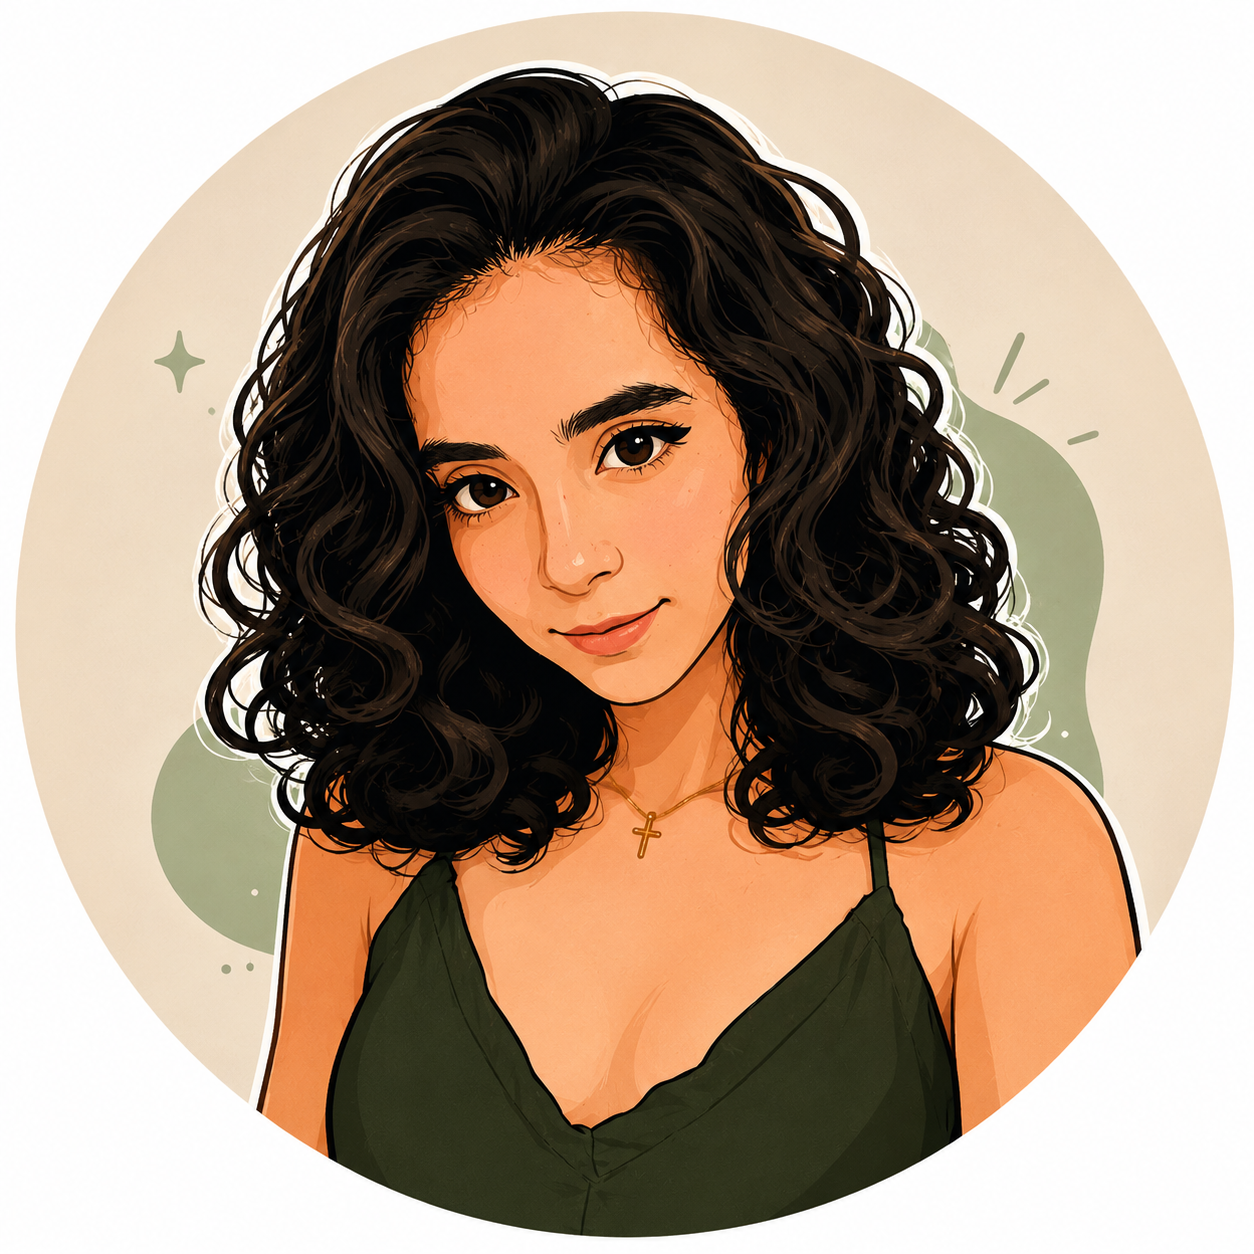
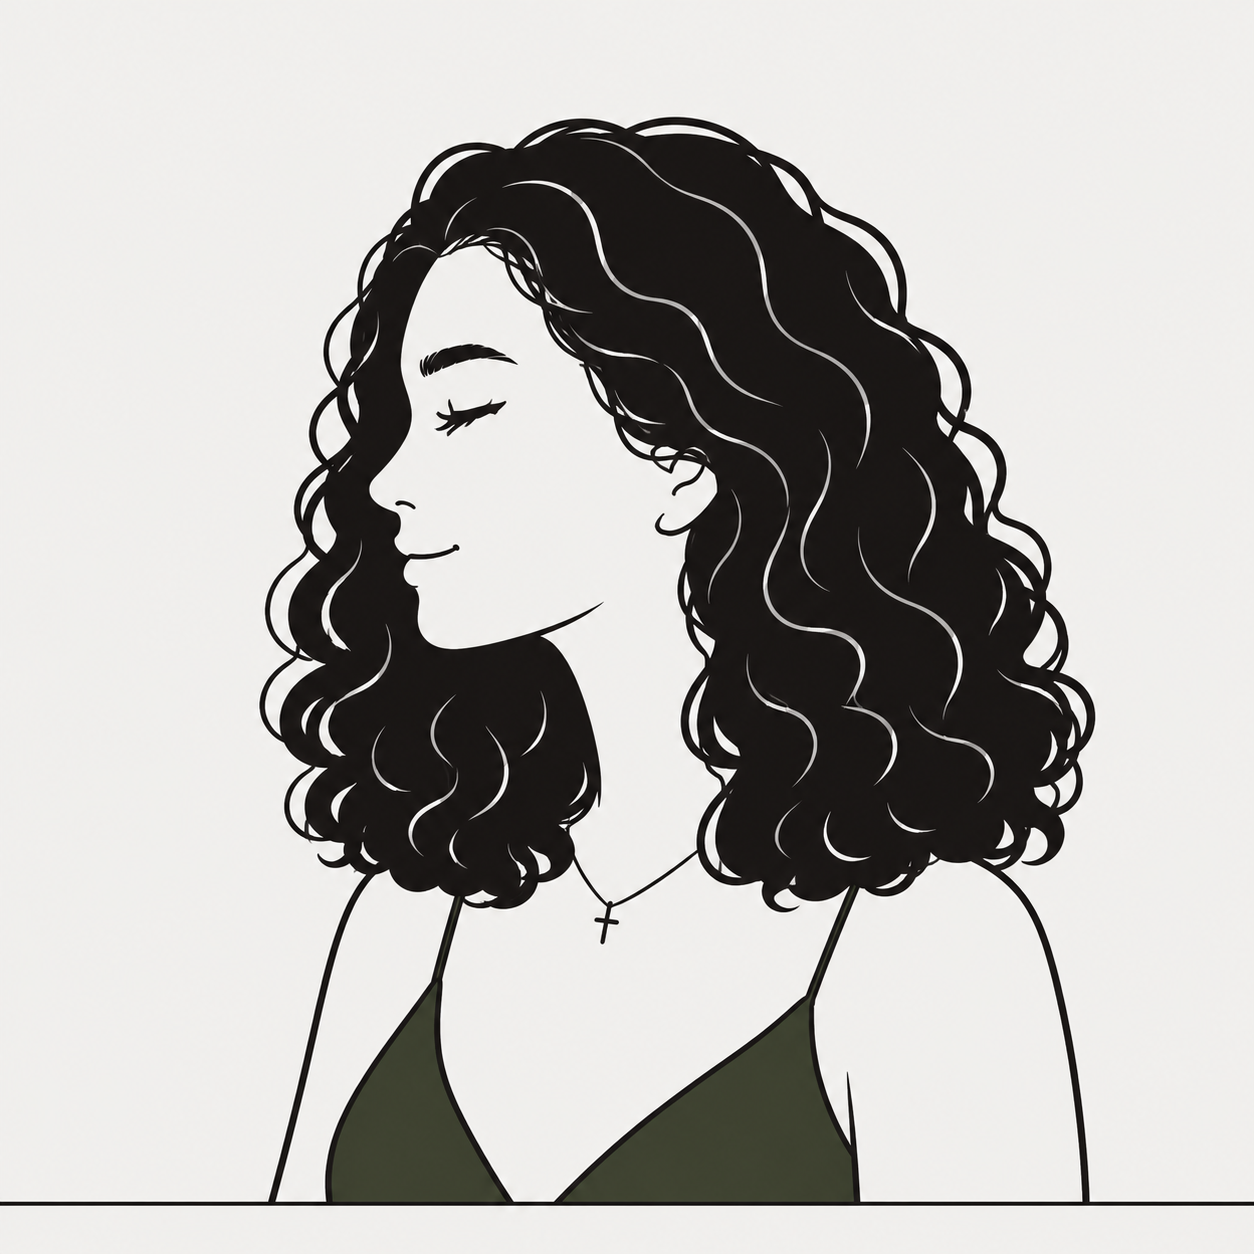
Ajusta o retrato do Sobre mim: recorte rente ao desenho e enquadramento em close
- Novo scripts/crop-portrait.mjs gera sobre-retrato.webp a partir de image.png:
  detecta o desenho, remove o fundo em volta e a linha de chão (62 KB contra
  1,4 MB do PNG); o original não é alterado
- A foto preenche a coluna (object-fit: cover, ancorada à esquerda para manter
  o rosto) e a linha de chão passa a ser desenhada por CSS, cobrindo a largura
  em qualquer tamanho de tela
- No celular a moldura fica em 4:5
- Atualiza image.png com a nova versão do retrato

diff --git a/app/globals.css b/app/globals.css
@@ -251,9 +251,14 @@ textarea.input { min-height: 90px; resize: vertical; }
 }
 .about-photo {
   flex: 4 1 280px; min-width: 0; min-height: 360px; position: relative; overflow: hidden;
-  border-right: 1px solid var(--color-divider); background: var(--color-neutral-300);
+  border-right: 1px solid var(--color-divider); background: #f0efec; /* mesmo fundo do retrato */
 }
-.about-photo img { position: absolute; inset: 0; width: 100%; height: 100%; object-fit: cover; object-position: top; }
+/* Retrato aproximado: preenche a coluna inteira, apoiado numa linha de chão desenhada por CSS.
+   Em colunas estreitas corta um pouco do cabelo à direita, mas o rosto fica sempre visível. */
+.about-photo img { position: absolute; inset: 0; width: 100%; height: 100%; object-fit: cover; object-position: 12% 100%; }
+.about-photo::after {
+  content: ""; position: absolute; left: 0; right: 0; bottom: 0; height: 2px; background: #201e1d; pointer-events: none;
+}
 .about-3 {
   flex: 5 1 360px; min-width: 0; padding: clamp(28px, 4.5vw, 56px);
   display: flex; flex-direction: column; justify-content: center; gap: 24px;
@@ -560,6 +565,7 @@ kbd {
   .folio { padding-left: 0; }
   .folio-label { padding: 0 16px; flex: 1; }
   .case-hero { min-height: 0; }
+  .about-photo { min-height: 0; aspect-ratio: 4 / 5; }
   .proj-row { grid-template-columns: 40px minmax(0, 1fr); grid-template-areas: "n t" "n c"; row-gap: 10px; padding: 20px var(--gutter); }
   .proj-row .y, .proj-row .a { display: none; }
   .proj-row .c { justify-self: start; }

diff --git a/components/pages/AboutPage.tsx b/components/pages/AboutPage.tsx
@@ -23,7 +23,7 @@ export default function AboutPage({ locale }: { locale: Locale }) {
 
         <div className="about-photo grayscale">
           {/* eslint-disable-next-line @next/next/no-img-element */}
-          <img src={`${basePath}/assets/img/image.png`} alt={t.photoAlt} />
+          <img src={`${basePath}/assets/img/sobre-retrato.webp`} alt={t.photoAlt} width={900} height={1117} />
         </div>
 
         <div className="about-3">
